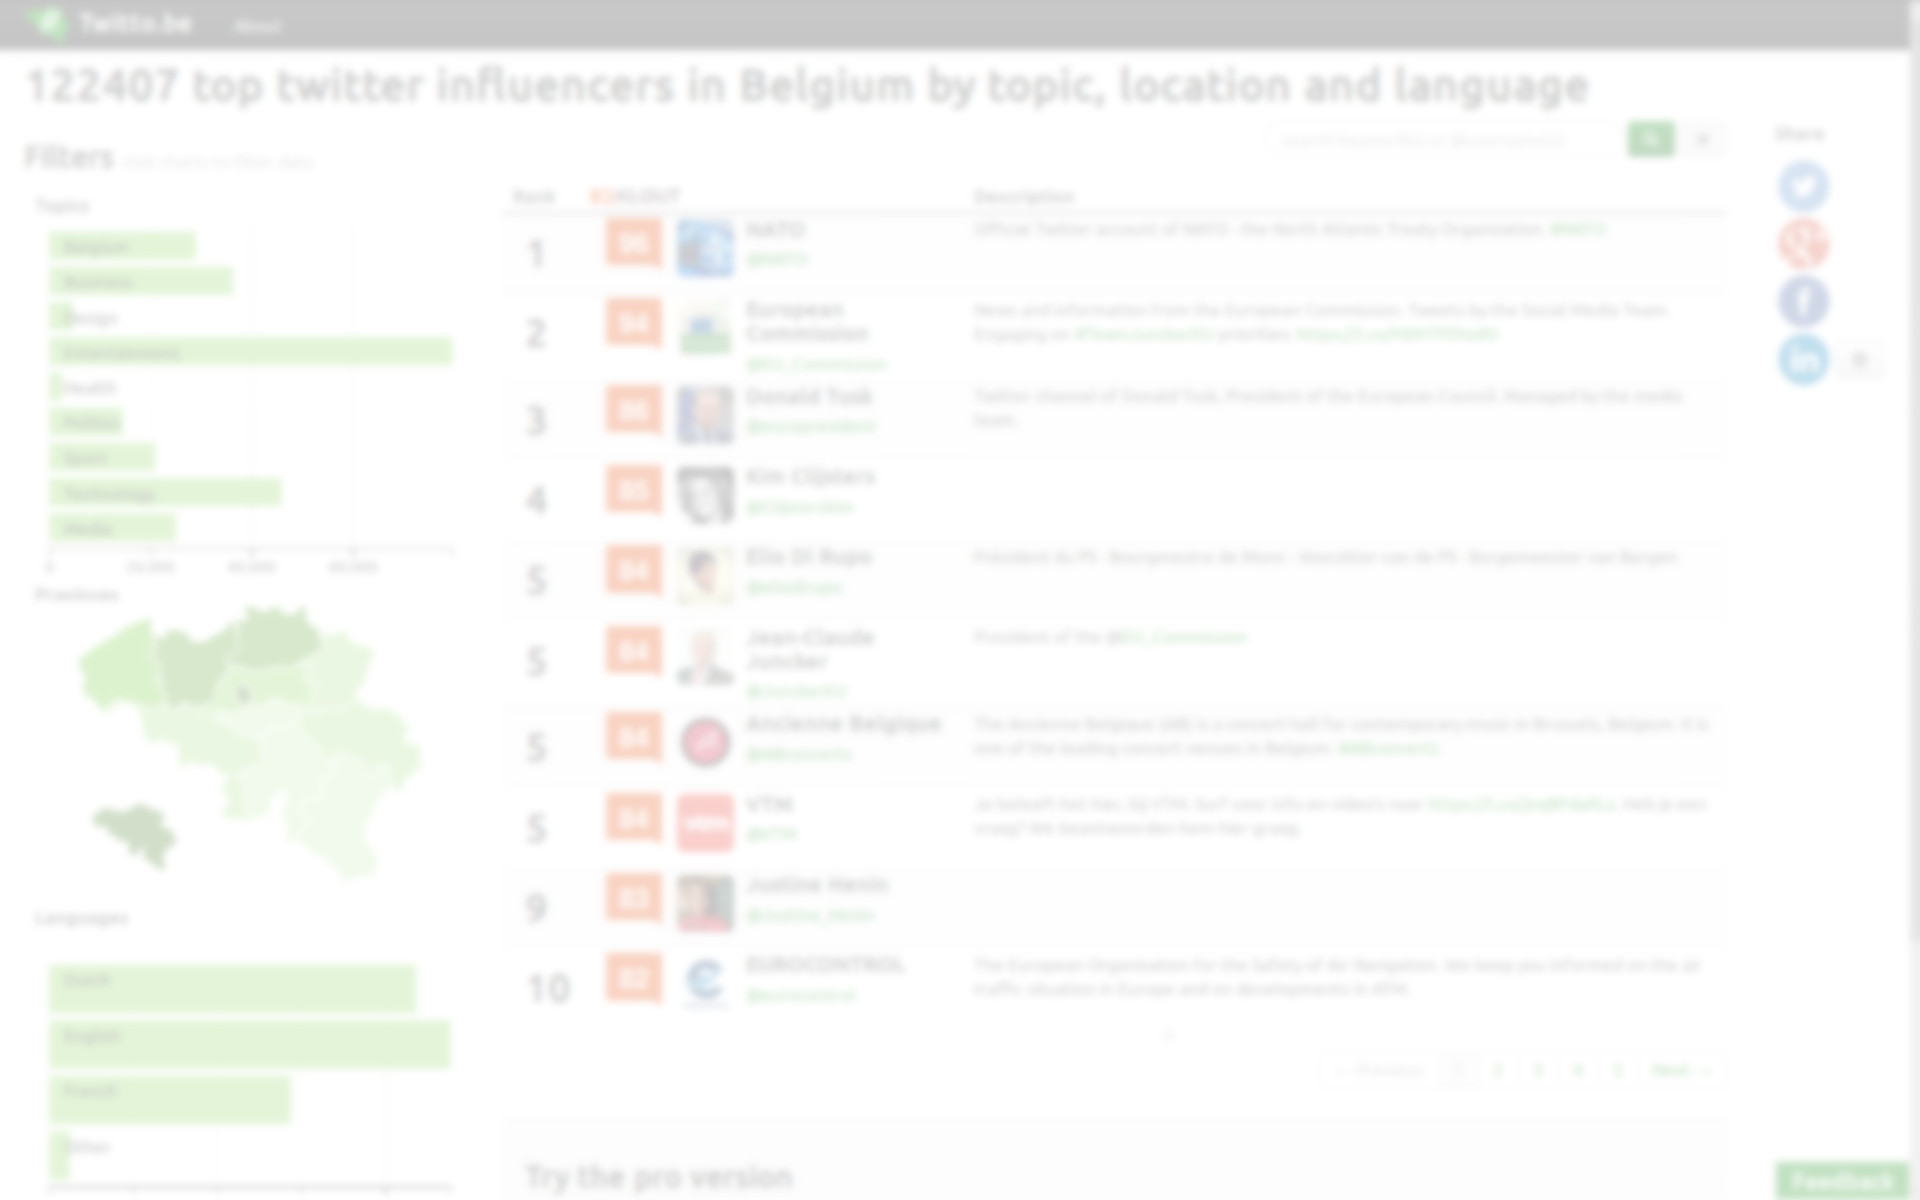
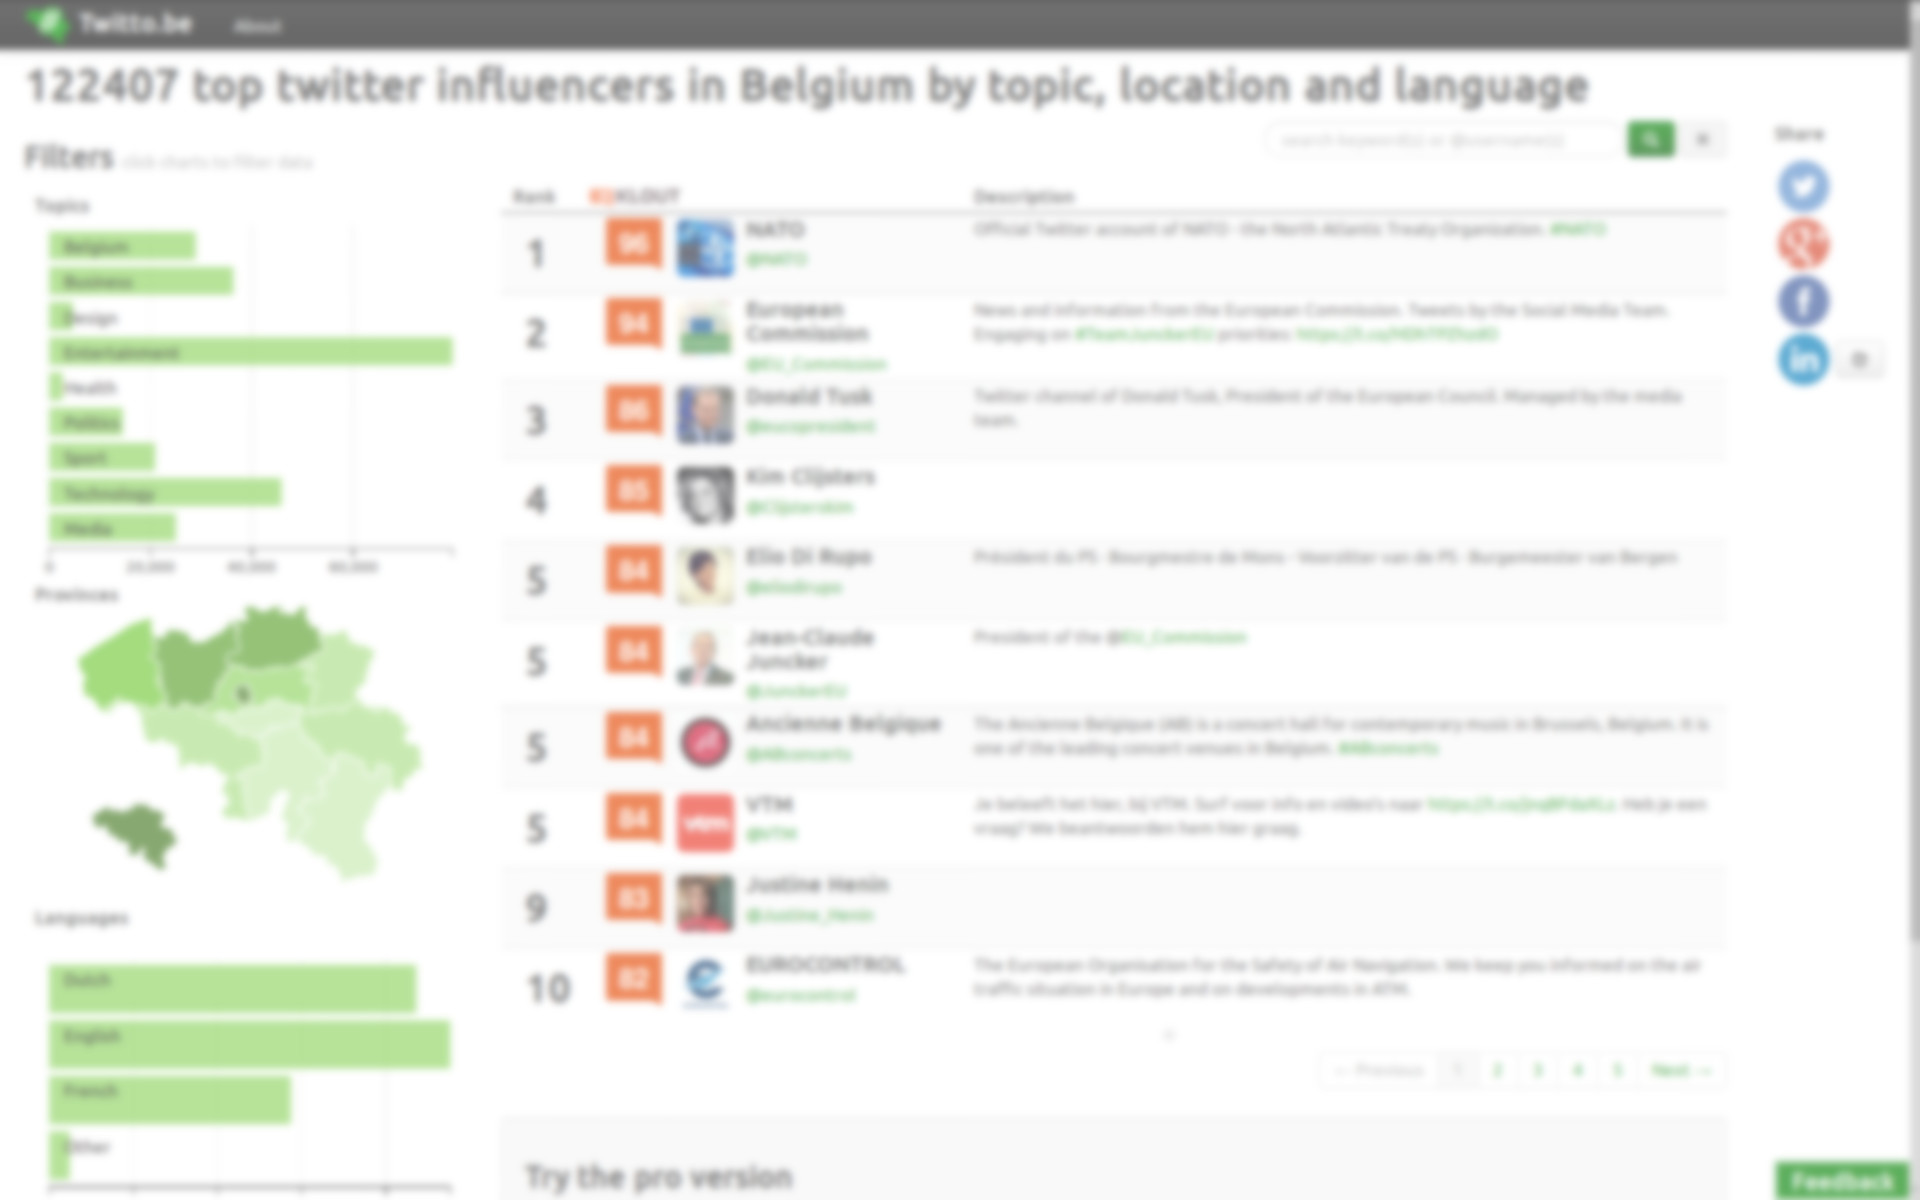
tuned layout #74 * readability * background

diff --git a/public/index.html b/public/index.html
@@ -27,7 +27,7 @@
 
 	<div class="container-fluid">
 		<div class="row-fluid">
-			<div class="span8 offset2" style="background: white;background: rgba(255, 255, 255, .5);">
+			<div class="span8 offset2" style="background: white;background: rgba(255, 255, 255, .8);padding-left:20px;padding-right:20px;">
 				<div style="text-align: center">
 					<h1><img src="img/twitto_be-0.4.0-square-logo-40x40.png" width="40px" height="40px"/> twitto.be is momentarily offline</h1>
 					
@@ -91,7 +91,7 @@
 		</div>
 
 		<div class="row-fluid">
-			<div class="span12" style="text-align: center">
+			<div class="span8 offset2" style="text-align: center; background: white;background: rgba(255, 255, 255, .8);padding-left:20px;padding-right:20px;">
 				<br><br>
 				<p>
 					<strong>Share the news!</strong>
